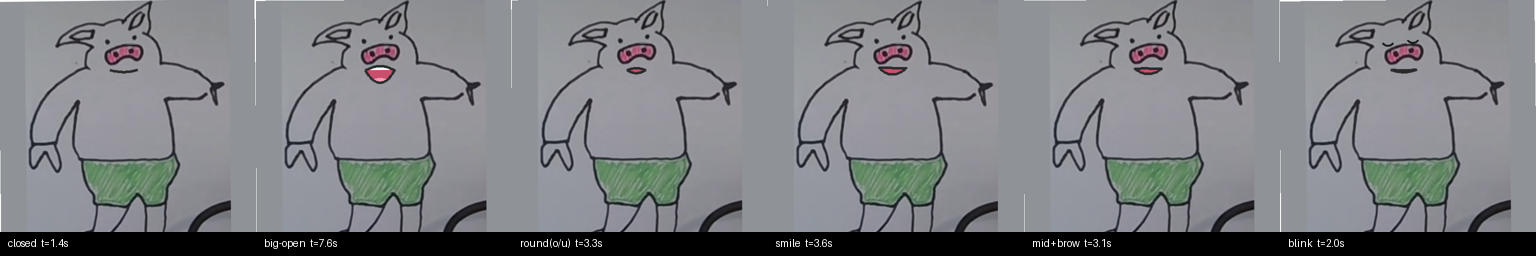
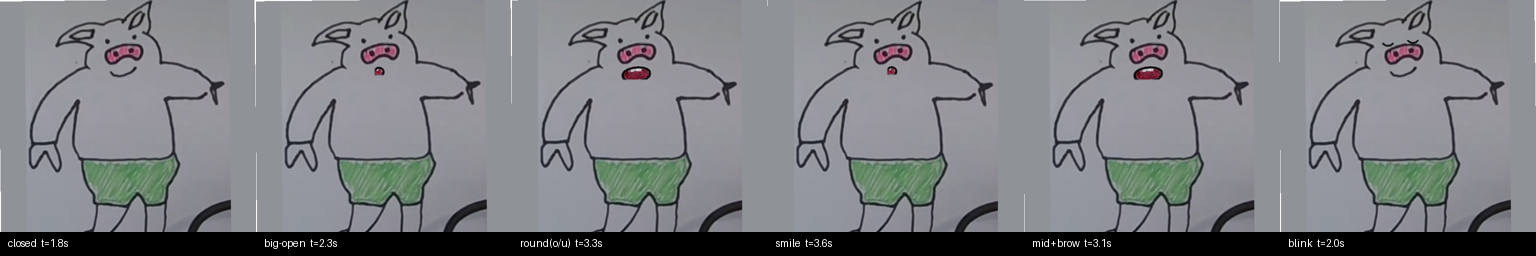
돼지 입모양: AI 생성 원본 화풍 입세트(7종)로 교체, 스프라이트 모드 단순화

diff --git a/docs/index.html b/docs/index.html
@@ -76,7 +76,8 @@ const cv = $("cv"), ctx = cv.getContext("2d");
 
 // ---------- 캐릭터 로드 (정적 + 세션 내 사용자 생성) ----------
 const PART_FILES = ["base", "brow_L", "brow_R", "eye_L_open", "eye_R_open",
-  "eye_L_closed", "eye_R_closed", "pupil_L", "pupil_R"];
+  "eye_L_closed", "eye_R_closed", "pupil_L", "pupil_R",
+  "mouth_closed", "mouth_M", "mouth_A", "mouth_E", "mouth_I", "mouth_O", "mouth_U"];
 let parts = {}, manifest = { pupilRange: 0, browRange: 0, jawDrop: 8, proceduralMouth: true, mouthStyle: {} };
 const userChars = {};  // id → {manifest, parts} (세션 한정)
 
@@ -186,6 +187,24 @@ function blinkValue(now) {
   return now < blinkUntil ? 1 : 0;
 }
 
+// ---------- 스프라이트 입 (진짜 그림 입세트가 있는 캐릭터) ----------
+function targetMouth() {
+  const jaw = W("jawopen"), round = Math.max(W("mouthpucker"), W("mouthfunnel"));
+  const wide = (W("mouthsmileleft") + W("mouthsmileright")) / 2;
+  if (jaw < 0.06) return W("mouthclose") > 0.25 ? "M" : "closed";
+  if (round > wide + 0.08) return jaw > 0.28 ? "O" : "U";
+  if (jaw > 0.42) return "A";
+  if (wide > 0.22) return jaw < 0.16 ? "I" : "E";
+  return jaw < 0.14 ? "closed" : "E";
+}
+let curMouth = "closed", mouthCand = "closed", candSince = 0;
+function pickMouth(now) {
+  const t = targetMouth();
+  if (t !== mouthCand) { mouthCand = t; candSince = now; }
+  if (mouthCand !== curMouth && now - candSince >= 70) curMouth = mouthCand;
+  return curMouth;
+}
+
 // ---------- 벡터 입 ----------
 function drawVectorMouth() {
   const st = manifest.mouthStyle || {};
@@ -255,7 +274,12 @@ function render(now) {
   draw("base"); draw("brow_L"); draw("brow_R");
   if (blink > 0.5) { draw("eye_L_closed"); draw("eye_R_closed"); }
   else { draw("eye_L_open"); draw("eye_R_open"); draw("pupil_L"); draw("pupil_R"); }
-  drawVectorMouth();
+  if (manifest.proceduralMouth === false && parts.mouth_closed) {
+    const m = pickMouth(now);
+    parts["mouth_" + m] && ctx.drawImage(parts["mouth_" + m], 0, W("jawopen") * (manifest.jawDrop || 8));
+  } else {
+    drawVectorMouth();
+  }
   ctx.restore();
 }
 requestAnimationFrame(render);

diff --git a/static/puppet.html b/static/puppet.html
@@ -366,18 +366,9 @@ function render(now) {
   if (manifest.proceduralMouth) {
     drawVectorMouth();  // 근육 채널 직접 구동 (기본)
   } else {
-    // 스프라이트 캐릭터용: 입모양 그림 + 연속 스케일
+    // 스프라이트 캐릭터용: 입세트가 벌림 정도를 표현하므로 스케일 없이 jawDrop만
     const m = pickMouth(now);
-    const { jaw, round, wide } = mouthFeat();
-    const [mcx, mcy] = manifest.mouthCenter || [256, 340];
-    const sy = (m === "closed" || m === "M") ? 1 : 0.72 + 0.7 * Math.min(jaw / 0.6, 1);
-    const sx = 1 + 0.22 * wide - 0.18 * round;
-    ctx.save();
-    ctx.translate(mcx, mcy + jaw * manifest.jawDrop);
-    ctx.scale(sx, sy);
-    ctx.translate(-mcx, -mcy);
-    draw("mouth_" + m);
-    ctx.restore();
+    draw("mouth_" + m, 0, W("jawopen") * manifest.jawDrop);
   }
   ctx.restore();
 }

diff --git a/tools/extract_mouth_sprites.py b/tools/extract_mouth_sprites.py
@@ -1,0 +1,96 @@
+"""AI 재생성 비짐 이미지에서 입 획만 분리해 캐릭터 스프라이트로 이식.
+
+전체 재생성(구도 어긋남) 이미지 대응: 이미지별 입 bbox를 수동 지정하고,
+bbox 안에서 어두운 획+붉은 내부를 마스크(구멍 채움)로 떼어 투명 스프라이트化.
+캔버스 앵커는 "입 상단 y + 가로 중심 x" (턱이 아래로 자라는 자연스러운 배치).
+
+사용: .venv/bin/python tools/extract_mouth_sprites.py pig
+"""
+import json
+import sys
+from pathlib import Path
+
+import numpy as np
+from PIL import Image, ImageFilter
+from scipy import ndimage
+
+ROOT = Path(__file__).resolve().parent.parent
+CANVAS = 512
+
+CONFIG = {
+    "pig": {
+        "char": "pig",
+        "src_original": ROOT / "test_1.png",          # closed 입 추출용
+        "closed_box": (160, 124, 224, 155),           # 원본의 다문 입
+        "viseme_dir": ROOT / "mouths_pig",
+        "anchor": (248, 132),                          # 캔버스: (가로중심 x, 입 상단 y)
+        "boxes": {                                     # 각 생성 이미지 안의 입 bbox
+            "A": (146, 106, 230, 198),
+            "E": (172, 116, 250, 168),
+            "I": (186, 134, 258, 166),
+            "M": (192, 154, 256, 180),
+            "O": (178, 128, 242, 188),
+            "U": (206, 136, 246, 176),
+        },
+        "ref_width": 396,  # 크기 정규화 기준(원본 폭) — 생성 이미지 폭과의 비율로 스케일
+    },
+}
+
+
+def extract_sprite(img_path, box, scale, anchor):
+    img = Image.open(img_path).convert("RGB")
+    arr = np.asarray(img.crop(box)).astype(int)
+    r, g, b = arr[..., 0], arr[..., 1], arr[..., 2]
+    dark = arr.max(axis=2) < 110                       # 검은 마커 획
+    red = (r > 100) & (r - b > 30) & (r - g > 25)      # 붉은 입 안쪽
+    mask = ndimage.binary_closing(dark | red, iterations=2)
+    mask = ndimage.binary_fill_holes(mask)             # 이빨(흰색) 포함해 내부 채움
+    labels, n = ndimage.label(mask)
+    if n > 1:  # 가장 큰 덩어리만 (주변 획 오염 제거)
+        sizes = ndimage.sum(mask, labels, range(1, n + 1))
+        mask = labels == (1 + int(np.argmax(sizes)))
+    alpha = (mask * 255).astype(np.uint8)
+
+    patch = img.crop(box).convert("RGBA")
+    patch.putalpha(Image.fromarray(alpha).filter(ImageFilter.GaussianBlur(1)))
+    w, h = round(patch.width * scale), round(patch.height * scale)
+    patch = patch.resize((w, h), Image.LANCZOS)
+
+    # 마스크 실제 범위 기준 앵커 (bbox 여백 무시)
+    ys, xs = np.nonzero(alpha)
+    cx_frac = (xs.min() + xs.max()) / 2 / alpha.shape[1]
+    top_frac = ys.min() / alpha.shape[0]
+
+    sprite = Image.new("RGBA", (CANVAS, CANVAS), (0, 0, 0, 0))
+    px = round(anchor[0] - w * cx_frac)
+    py = round(anchor[1] - h * top_frac)
+    sprite.alpha_composite(patch, (px, py))
+    return sprite
+
+
+def main(cfg_id):
+    cfg = CONFIG[cfg_id]
+    out = ROOT / "assets_characters" / cfg["char"]
+    made = []
+
+    for v, box in cfg["boxes"].items():
+        f = Path(cfg["viseme_dir"]) / f"{v}.png"
+        with Image.open(f) as im:
+            scale = cfg["ref_width"] / im.width * (CANVAS / 496)  # 생성크기→원본→캔버스
+        extract_sprite(f, box, scale, cfg["anchor"]).save(out / f"mouth_{v}.png")
+        made.append(v)
+
+    # closed: 원본 그림의 다문 입을 같은 방식으로
+    scale = CANVAS / 496
+    extract_sprite(cfg["src_original"], cfg["closed_box"], scale, cfg["anchor"]).save(out / "mouth_closed.png")
+    made.append("closed")
+
+    mf = out / "manifest.json"
+    manifest = json.loads(mf.read_text())
+    manifest["proceduralMouth"] = False
+    mf.write_text(json.dumps(manifest, ensure_ascii=False, indent=2))
+    print(f"OK: {made} → {out}, 스프라이트 모드 전환")
+
+
+if __name__ == "__main__":
+    main(sys.argv[1] if len(sys.argv) > 1 else "pig")

diff --git a/tools/make_mouth_set.py b/tools/make_mouth_set.py
@@ -1,0 +1,73 @@
+"""AI 편집(또는 재촬영) 이미지들 → 캐릭터 입모양 스프라이트 세트.
+
+전제: 각 비짐 이미지는 원본 그림과 같은 구도(전체 이미지 편집본).
+입력 폴더에 A.png E.png I.png O.png U.png M.png (일부 생략 가능, closed.png 선택).
+
+사용: .venv/bin/python tools/make_mouth_set.py <char_id> <원본이미지> <비짐폴더> x0 y0 x1 y1
+     (x0..y1 = 원본 픽셀 기준 입 영역 — 캐릭터 만들 때 쓴 mouth_box와 동일 값)
+예:  .venv/bin/python tools/make_mouth_set.py pig test_1.png mouths_pig 162 126 222 153
+완료 후 manifest가 스프라이트 모드(proceduralMouth: false)로 전환된다.
+"""
+import json
+import sys
+from pathlib import Path
+
+from PIL import Image
+
+CANVAS = 512
+VISEMES = ["closed", "M", "A", "E", "I", "O", "U"]
+PAD = 6  # 입 박스 여유 px (원본 기준)
+
+
+def main(char_id, src_path, viseme_dir, x0, y0, x1, y1):
+    root = Path(__file__).resolve().parent.parent
+    out = root / "assets_characters" / char_id
+    manifest_path = out / "manifest.json"
+    manifest = json.loads(manifest_path.read_text())
+
+    src = Image.open(src_path)
+    s = min(CANVAS / src.width, CANVAS / src.height)
+    ox, oy = (CANVAS - src.width * s) / 2, (CANVAS - src.height * s) / 2
+    box = (max(0, x0 - PAD), max(0, y0 - PAD), min(src.width, x1 + PAD), min(src.height, y1 + PAD))
+
+    made = []
+    for v in VISEMES:
+        f = Path(viseme_dir) / f"{v}.png"
+        if not f.exists():
+            continue
+        img = Image.open(f).convert("RGB")
+        if img.size != src.size:
+            img = img.resize(src.size, Image.LANCZOS)
+        patch = img.crop(box)
+        cw, ch = round(patch.width * s), round(patch.height * s)
+        sprite = Image.new("RGBA", (CANVAS, CANVAS), (0, 0, 0, 0))
+        sprite.paste(patch.resize((cw, ch), Image.LANCZOS).convert("RGBA"),
+                     (round(ox + box[0] * s), round(oy + box[1] * s)))
+        sprite.save(out / f"mouth_{v}.png")
+        made.append(v)
+
+    missing = [v for v in VISEMES if v not in made]
+    if "closed" in missing:
+        # closed는 벡터 입이 그리던 다문 입 — base가 이미 지워져 있으므로 원본에서 크롭해 사용
+        patch = Image.open(src_path).convert("RGB").crop(box)
+        cw, ch = round(patch.width * s), round(patch.height * s)
+        sprite = Image.new("RGBA", (CANVAS, CANVAS), (0, 0, 0, 0))
+        sprite.paste(patch.resize((cw, ch), Image.LANCZOS).convert("RGBA"),
+                     (round(ox + box[0] * s), round(oy + box[1] * s)))
+        sprite.save(out / "mouth_closed.png")
+        made.append("closed(원본)")
+        missing.remove("closed")
+    for v in missing:  # 빠진 비짐은 가장 가까운 것으로 대체 링크
+        near = {"M": "closed", "E": "A", "I": "E", "U": "O", "O": "A", "A": "E"}[v]
+        nf = out / f"mouth_{near}.png"
+        if nf.exists():
+            Image.open(nf).save(out / f"mouth_{v}.png")
+
+    manifest["proceduralMouth"] = False
+    manifest_path.write_text(json.dumps(manifest, ensure_ascii=False, indent=2))
+    print(f"OK: {out} — 생성 {made}, 대체 {missing}, 스프라이트 모드 전환 완료")
+
+
+if __name__ == "__main__":
+    a = sys.argv[1:]
+    main(a[0], a[1], a[2], *map(int, a[3:7]))
